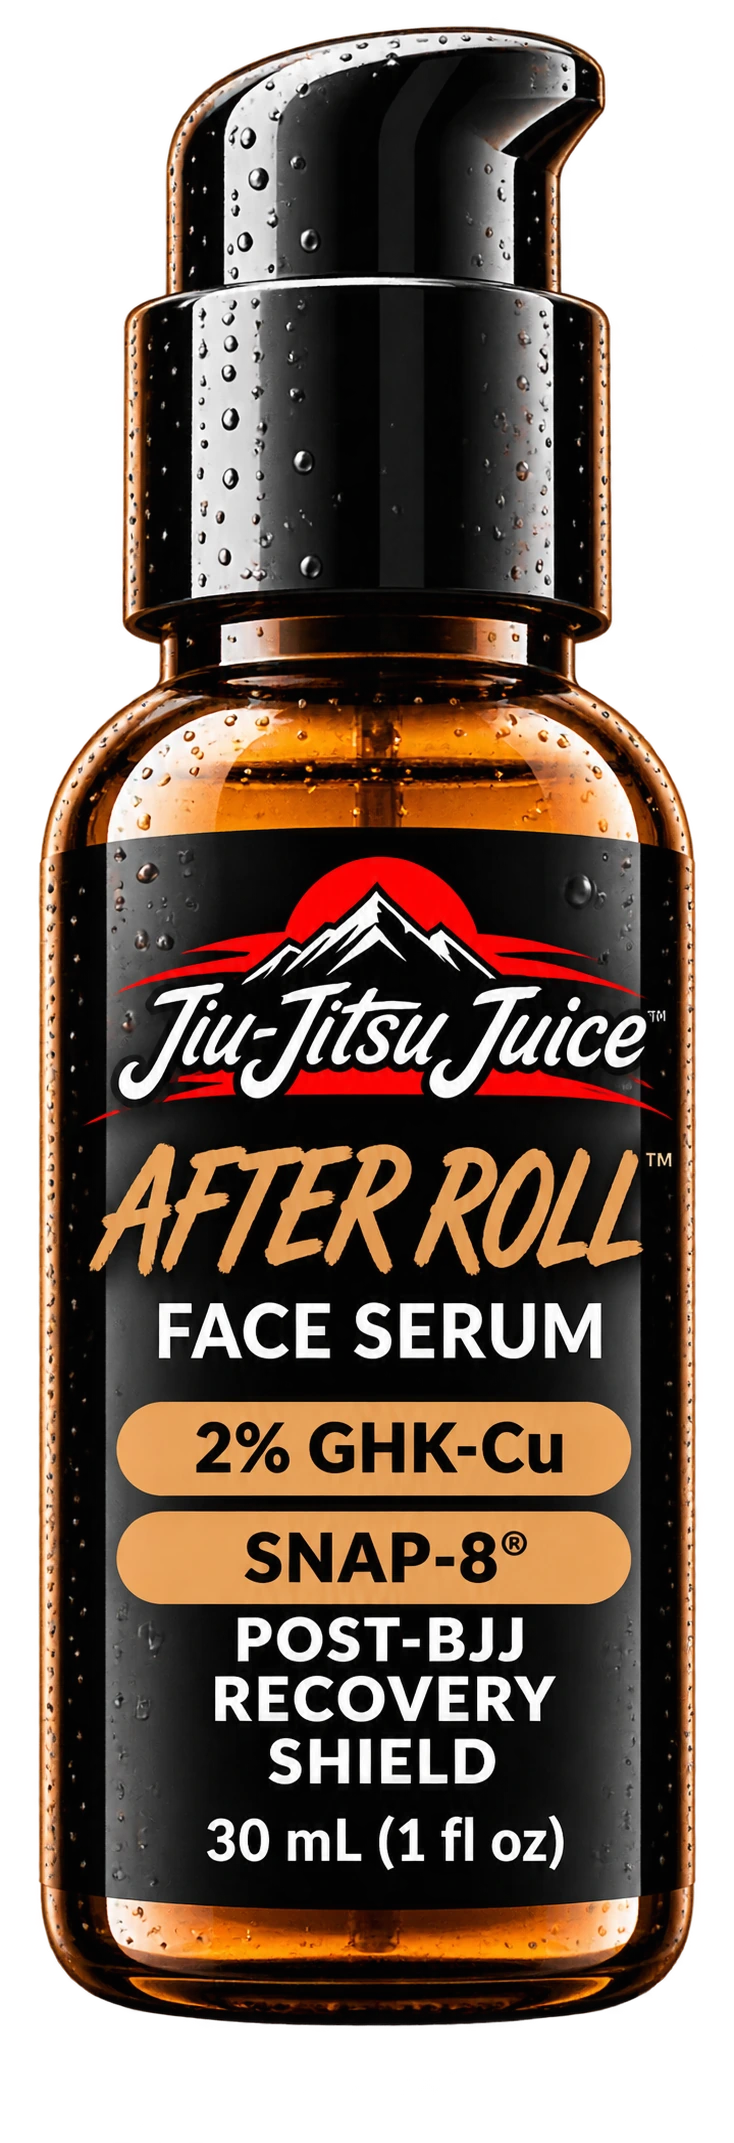
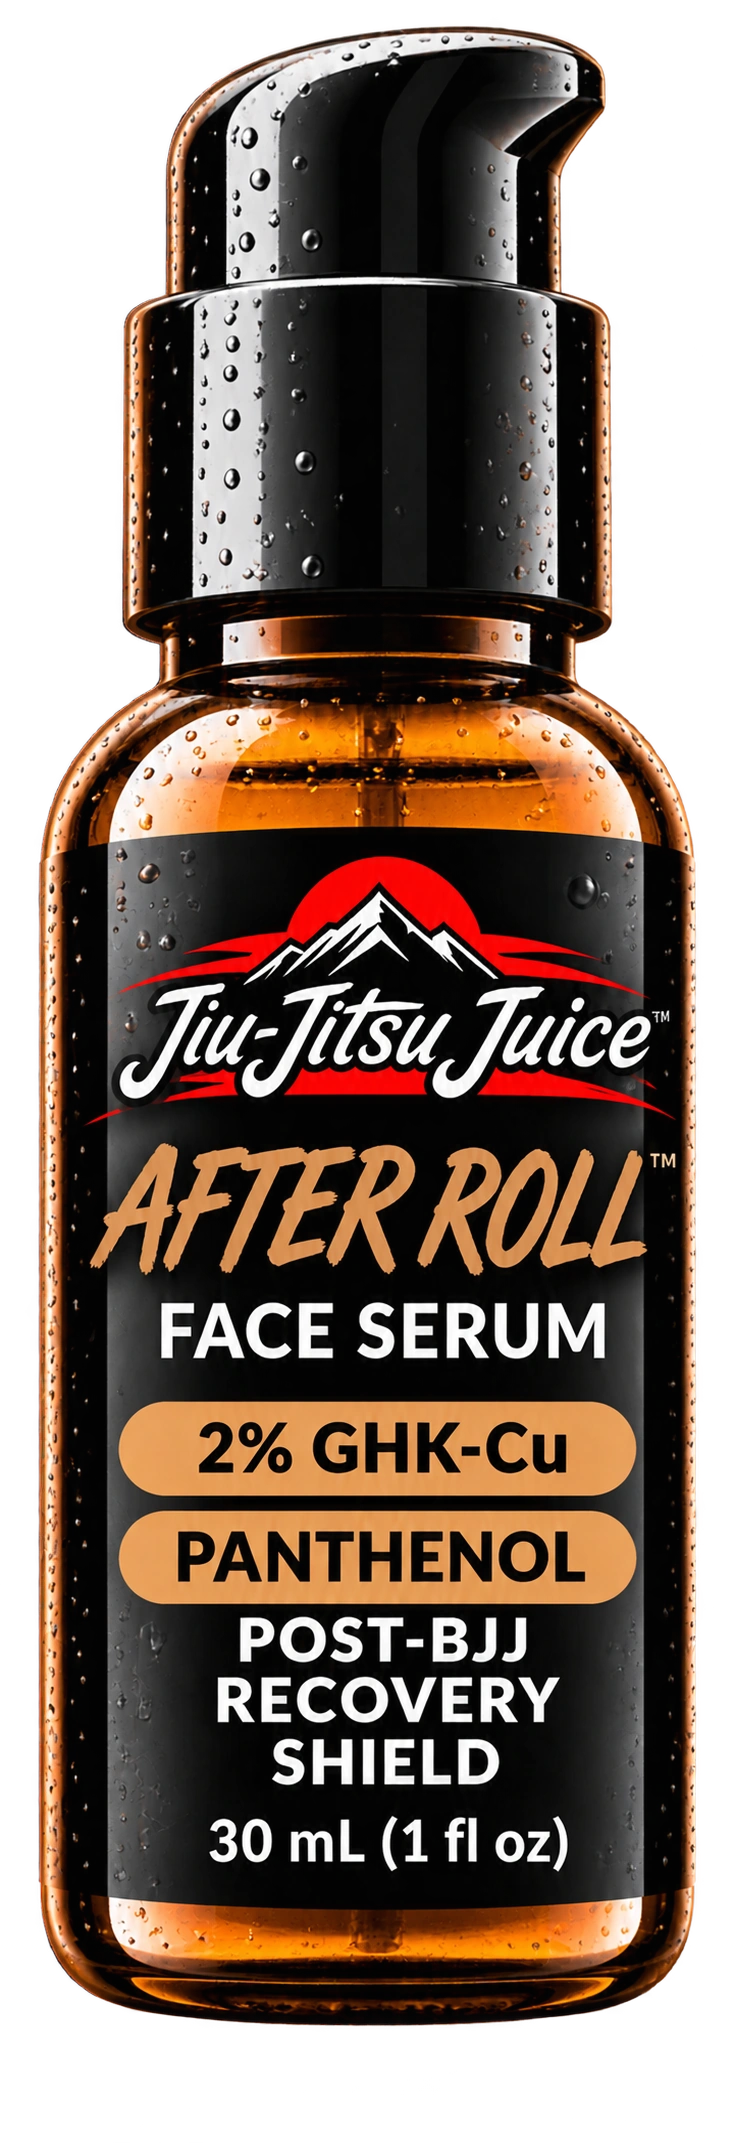
Update Afteroll Bottles

diff --git a/skincare/serums/index.html b/skincare/serums/index.html
@@ -27,7 +27,7 @@ a:focus-visible{outline:2px solid #78baff;outline-offset:4px;border-radius:3px}
 .routine-related .routine-links a:hover{background:#ffffff20}
 @media(max-width:550px){.routine-related{padding:19px}.routine-related .routine-links a{width:100%;text-align:center}header .nav{flex-wrap:wrap;padding-top:12px;padding-bottom:12px}header .nav-links{flex-wrap:wrap;row-gap:12px}}
 </style><style>.collection-status{padding:42px 18px;background:#151821;color:#fff}.collection-status .container{max-width:1000px;margin:auto}.collection-status p{line-height:1.65}.collection-status a{color:#d3e1ff;text-decoration:underline}</style></head><body><header><div class="container nav"><a class="brand" href="/skincare/">JIU-JITSU <span>JUICE</span></a><nav aria-label="Navigation" class="nav-links"><a href="/skincare/">Home</a><a aria-current="page" href="/skincare/serums/">Serums</a><a href="/skincare/white-to-black/">White to Black</a></nav></div></header><main><section class="hero"><div class="container"><div class="eyebrow">Performance skincare for the mat</div><h1>Serum Collection</h1><p>Three targeted face serums inspired by the mats. Explore each formula, compare ingredients, and find your post-training routine.</p><div class="hero-tagline"><span class="blue">Small Batch.</span> <span class="purple">Handcrafted.</span> <span class="brown">NC Made.</span></div></div></section><section aria-label="Skincare products" class="container products" id="collection">
-<article class="product"><div class="visual"><a aria-label="Explore Tap Out product details" href="/skincare/tap-out/"><img alt="Tap Out blue face serum bottle" loading="lazy" src="/assets/tap-out-bottle.webp"/></a></div><div class="product-content"><h2>Tap Out</h2><div class="descriptor">Isolated wrinkle-line treatment</div><div class="price">$30 <small style="font-size:.8rem;font-weight:500">/ 30 mL</small></div><p>A lightweight Syn-Ake serum designed to soften the appearance of expression lines and promote smoother-looking skin.</p><ul><li>Syn-Ake</li><li>Aloe Vera Leaf Juice</li></ul><a class="btn" href="/skincare/tap-out/">Explore Tap Out</a></div></article>
-<article class="product purple"><div class="visual"><a aria-label="Explore Mat Glow product details" href="/skincare/mat-glow/"><img alt="Mat Glow purple face serum bottle" loading="lazy" src="/assets/mat-glow-bottle.webp"/></a></div><div class="product-content"><h2>Mat Glow</h2><div class="descriptor">Daily firming + hydration</div><div class="price">$40 <small style="font-size:.8rem;font-weight:500">/ 30 mL</small></div><p>A daily multi-peptide serum featuring 1% GHK-Cu, formulated to hydrate and support smoother, healthier-looking skin.</p><ul><li>1% GHK-Cu</li><li>Hyaluronic Acid</li><li>Matrixyl 3000</li><li>Argireline</li></ul><a class="btn" href="/skincare/mat-glow/">Explore Mat Glow</a></div></article>
-<article class="product brown"><div class="visual"><a aria-label="Explore After Roll product details" href="/skincare/after-roll/"><img alt="After Roll bronze face serum bottle" loading="lazy" src="/assets/after-roll-bottle.webp"/></a></div><div class="product-content"><h2>After Roll</h2><div class="descriptor">Post-BJJ recovery shield</div><div class="price">$50 <small style="font-size:.8rem;font-weight:500">/ 30 mL</small></div><p>A post-training serum featuring 2% GHK-Cu, designed to replenish moisture and support comfortable, conditioned skin.</p><ul><li>2% GHK-Cu</li><li>SNAP-8</li><li>Squalane</li><li>Caprylic/Capric Triglyceride</li></ul><a class="btn" href="/skincare/after-roll/">Explore After Roll</a></div></article></section>
+<article class="product"><div class="visual"><a aria-label="Explore Tap Out product details" href="/skincare/tap-out/"><img alt="Tap Out blue face serum bottle" loading="lazy" src="/assets/tap-out-bottle.webp"/></a></div><div class="product-content"><h2>Tap Out</h2><div class="descriptor">Dual-peptide smoothing + hydration</div><div class="price">$30 <small style="font-size:.8rem;font-weight:500">/ 30 mL</small></div><p>A lightweight serum featuring Syn-Ake and SNAP-8 peptides with multi-molecular-weight hyaluronic acid to hydrate skin and soften the appearance of expression lines.</p><ul><li>Syn-Ake</li><li>SNAP-8</li><li>Hyaluronic Acid (Sodium Hyaluronate)</li><li>Aloe Vera Leaf Juice</li></ul><a class="btn" href="/skincare/tap-out/">Explore Tap Out</a></div></article>
+<article class="product purple"><div class="visual"><a aria-label="Explore Mat Glow product details" href="/skincare/mat-glow/"><img alt="Mat Glow purple face serum bottle" loading="lazy" src="/assets/mat-glow-bottle.webp"/></a></div><div class="product-content"><h2>Mat Glow</h2><div class="descriptor">Daily firming + hydration</div><div class="price">$40 <small style="font-size:.8rem;font-weight:500">/ 30 mL</small></div><p>A daily multi-peptide serum featuring 1% GHK-Cu, Matrixyl 3000, Argireline, and hyaluronic acid for hydration and smoother-looking skin.</p><ul><li>1% GHK-Cu</li><li>Matrixyl 3000</li><li>Argireline</li><li>Hyaluronic Acid</li></ul><a class="btn" href="/skincare/mat-glow/">Explore Mat Glow</a></div></article>
+<article class="product brown"><div class="visual"><a aria-label="Explore After Roll product details" href="/skincare/after-roll/"><img alt="After Roll bronze face serum bottle" loading="lazy" src="/assets/after-roll-bottle.webp"/></a></div><div class="product-content"><h2>After Roll</h2><div class="descriptor">Post-training hydration + conditioning</div><div class="price">$50 <small style="font-size:.8rem;font-weight:500">/ 30 mL</small></div><p>A post-training serum featuring 2% GHK-Cu, panthenol (Pro-Vitamin B5), and skin-conditioning emollients to replenish moisture and support a comfortable, healthy-looking skin barrier.</p><ul><li>2% GHK-Cu</li><li>Panthenol (Pro-Vitamin B5)</li><li>Squalane</li><li>Caprylic/Capric Triglyceride</li></ul><a class="btn" href="/skincare/after-roll/">Explore After Roll</a></div></article></section>
 <section class="container" id="bundle"><div class="bundle"><div><div class="eyebrow">The Triangle</div><h2>All Three Serums</h2><p>Tap Out + Mat Glow + After Roll</p></div><div><div class="bundle-price">$100</div><div class="save">Save $20</div></div></div></section><section class="container info"><h2>Skincare Tips</h2><p>For external use only. Patch test before first use, especially if you have sensitive skin. Avoid applying to broken or irritated skin, and discontinue use if irritation occurs. Avoid direct contact with eyes. Introduce new products one at a time to assess skin tolerance. During the day, use broad-spectrum SPF 30 or higher sunscreen.</p><h2>About Our Peptides</h2><p>We formulate our serums using <strong>≥99% purity GHK-Cu, SNAP-8, and Syn-Ake cosmetic-grade peptide powders</strong>, rather than pre-diluted peptide solutions.</p><p>Our peptide concentrations reflect the amount of peptide powder added directly to each finished formulation, expressed as <strong>weight per volume (w/v)</strong> rather than the concentration of a pre-diluted ingredient solution.</p><p><strong>Mat Glow contains 1% GHK-Cu (w/v), while After Roll contains 2% GHK-Cu (w/v).</strong> These concentrations represent the amount of cosmetic-grade copper peptide powder incorporated into the finished serum.</p><p>We carefully select our ingredients to create targeted skincare formulas designed for hydration, skin conditioning, and improving the appearance of fine lines.</p><p>Each batch of peptide powder comes with a <strong>supplier-provided Certificate of Analysis (COA)</strong> documenting its reported purity and quality specifications.</p><p class="fineprint">Skincare information is educational and not medical advice. Ingredient compatibility, preservation, stability, labeling and safety of a finished formula require independent verification. Ask your coach for current details and pricing.</p><a class="btn" href="/">Back to Jiu-Jitsu Juice</a></section><section aria-label="Additional collection pricing" class="collection-status"><div class="container"><h2>Complete the routine</h2><p><strong>White to Black:</strong> Clean Sweep ($20) + Closed Guard ($60) · planned bundle $70 (save $10).</p><p><strong>The Belt Collection:</strong> all five products · planned bundle $160 (save $40).</p><p><strong>White to Black is still in development. Samples coming soon to a gym near you.</strong></p><a href="/skincare/white-to-black/">Explore the essentials</a></div></section></main><footer><div class="container footerline"><span>© 2026 Jiu-Jitsu Juice</span><span>Beyond the roll.</span></div></footer><script>document.getElementById('year').textContent=new Date().getFullYear()</script></body></html>
